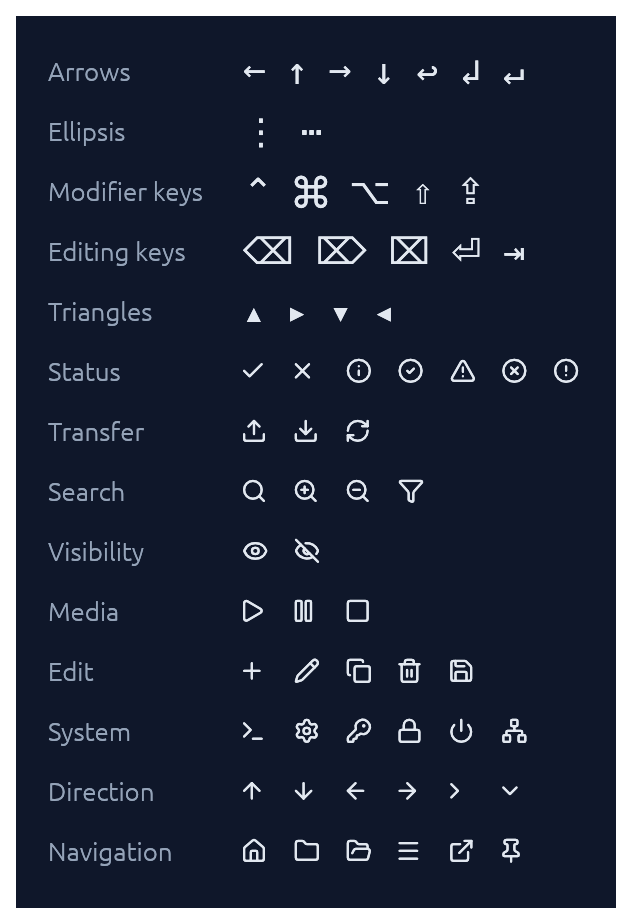
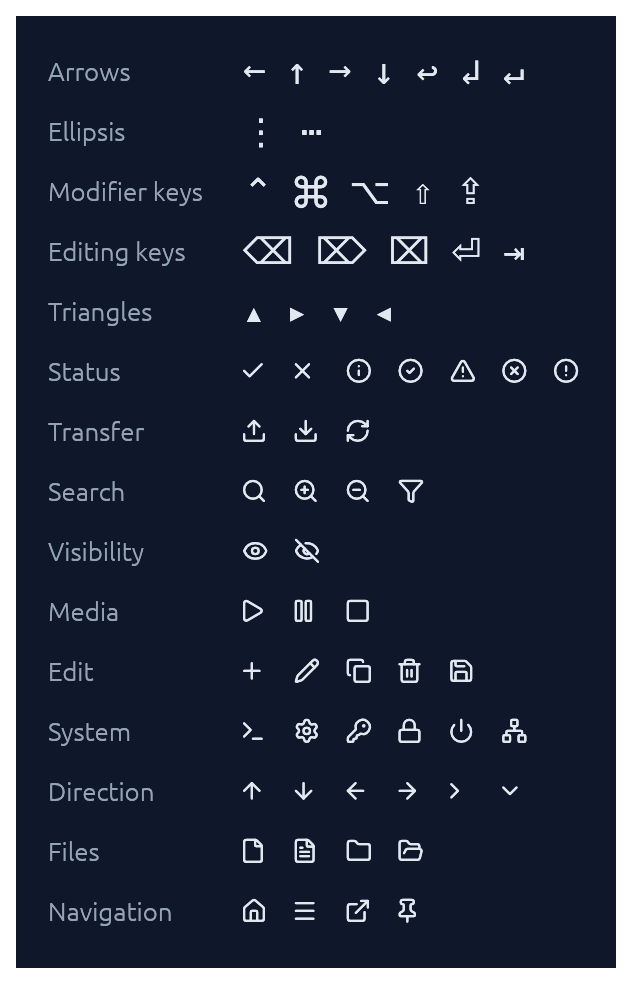
Dock layout readback, pane ids, file glyphs (#45)
* Dock: to_node readback, DockGroupContext::id; FILE and FILE_TEXT glyphs

* Review: tighter to_node and id tests, simpler harness and docs

diff --git a/src/dock/layout.rs b/src/dock/layout.rs
@@ -191,6 +191,9 @@ impl DropTarget {
 ///
 /// Lookups take any borrowed form of `T`, as `HashMap` does, so a
 /// `DockLayout<String>` accepts `&str`.
+///
+/// `==` also compares focus and internal ids; compare [`Self::to_node`] to
+/// compare shapes.
 #[derive(Clone, Debug, PartialEq)]
 #[cfg_attr(feature = "serde", derive(serde::Serialize, serde::Deserialize))]
 pub struct DockLayout<T> {
@@ -235,6 +238,33 @@ impl<T: Clone + Eq + Hash> DockLayout<T> {
         I::Item: Into<T>,
     {
         Self::from_node(DockNode::tabs(tabs))
+    }
+
+    /// The layout's shape as a [`DockNode`]: its groups, their tabs in strip
+    /// order, and its splits and fractions. `None` when the layout is empty.
+    ///
+    /// This is a snapshot for inspecting or comparing layouts, as in a test.
+    /// It leaves out each group's active tab and the focused group, and
+    /// rebuilding with [`Self::from_node`] resets those and each pane's
+    /// [`DockGroupContext::id`](crate::DockGroupContext::id), so edit a layout
+    /// with its own methods instead.
+    ///
+    /// ```
+    /// use elegance::{DockLayout, DockNode, DockSide};
+    ///
+    /// let mut layout = DockLayout::<String>::single(["editor"]);
+    /// layout.insert_beside("editor", "console", DockSide::Bottom);
+    /// assert_eq!(
+    ///     layout.to_node(),
+    ///     Some(DockNode::column(
+    ///         0.5,
+    ///         DockNode::tabs(["editor"]),
+    ///         DockNode::tabs(["console"]),
+    ///     )),
+    /// );
+    /// ```
+    pub fn to_node(&self) -> Option<DockNode<T>> {
+        self.root.as_ref().map(Node::to_node)
     }
 
     fn build(&mut self, node: DockNode<T>) -> Node<T> {
@@ -839,6 +869,21 @@ enum MaybeTab<T> {
 }
 
 impl<T> Node<T> {
+    fn to_node(&self) -> DockNode<T>
+    where
+        T: Clone,
+    {
+        match self {
+            Self::Group(g) => DockNode::Tabs(g.tabs.clone()),
+            Self::Split {
+                direction,
+                fraction,
+                first,
+                second,
+            } => DockNode::split(*direction, *fraction, first.to_node(), second.to_node()),
+        }
+    }
+
     pub(crate) fn for_each_group<'a>(&'a self, f: &mut impl FnMut(&'a TabGroup<T>)) {
         match self {
             Self::Group(g) => f(g),
@@ -992,8 +1037,8 @@ fn split_node<T>(node: &mut Node<T>, side: DockSide, added: Node<T>, share: f32)
 mod tests {
     use super::*;
 
-    fn three_pane() -> DockLayout<String> {
-        DockLayout::<String>::from_node(DockNode::row(
+    fn three_pane_node() -> DockNode<String> {
+        DockNode::row(
             0.25,
             DockNode::tabs(["files"]),
             DockNode::column(
@@ -1001,7 +1046,11 @@ mod tests {
                 DockNode::tabs(["editor", "preview"]),
                 DockNode::tabs(["console"]),
             ),
-        ))
+        )
+    }
+
+    fn three_pane() -> DockLayout<String> {
+        DockLayout::from_node(three_pane_node())
     }
 
     #[test]
@@ -1637,5 +1686,24 @@ mod tests {
         );
         assert!(moved);
         assert!(layout.next_group > 8, "allocator moved past existing ids");
+    }
+
+    #[test]
+    fn to_node_reads_back_the_shape() {
+        assert_eq!(DockLayout::<String>::new().to_node(), None);
+        let node = three_pane_node();
+        let mut layout = DockLayout::from_node(node.clone());
+        assert_eq!(layout.to_node(), Some(node.clone()));
+
+        // Active tabs and focus are left out.
+        layout.activate("preview");
+        assert_eq!(layout.to_node(), Some(node.clone()));
+
+        // The dropped empty group takes id 0, so the ids differ from
+        // `layout`'s while the shape matches.
+        let shifted =
+            DockLayout::from_node(DockNode::row(0.5, DockNode::Tabs(vec![]), node.clone()));
+        assert_ne!(shifted, DockLayout::from_node(node.clone()));
+        assert_eq!(shifted.to_node(), Some(node));
     }
 }

diff --git a/tests/dock.rs b/tests/dock.rs
@@ -17,12 +17,15 @@ struct App {
     min_tab_width: f32,
     /// Skip showing the dock, as an app does while a tab page is hidden.
     hidden: bool,
-    /// Give each strip buttons through `DockViewer::tab_strip_ui`.
-    strip_buttons: bool,
+    viewer: Viewer,
 }
 
+#[derive(Default)]
 struct Viewer {
+    /// Give each strip buttons through `DockViewer::tab_strip_ui`.
     strip_buttons: bool,
+    /// Each group's `DockGroupContext::id`, from the last frame.
+    strip_ids: Vec<egui::Id>,
 }
 
 impl DockViewer for Viewer {
@@ -64,6 +67,7 @@ impl DockViewer for Viewer {
     /// "new beside X" adds "X+" to X's group. The `files` group can also
     /// open `preview`, a tab in another group.
     fn tab_strip_ui(&mut self, ui: &mut egui::Ui, context: &mut DockGroupContext<'_, String>) {
+        self.strip_ids.push(context.id());
         if !self.strip_buttons {
             return;
         }
@@ -93,16 +97,11 @@ fn harness_sized(layout: DockLayout<String>, size: egui::Vec2) -> Harness<'stati
             if app.hidden {
                 return;
             }
+            app.viewer.strip_ids.clear();
             let out = Dock::new("dock")
                 .min_pane_size(app.min_pane)
                 .min_tab_width(app.min_tab_width)
-                .show(
-                    ui,
-                    &mut app.layout,
-                    &mut Viewer {
-                        strip_buttons: app.strip_buttons,
-                    },
-                );
+                .show(ui, &mut app.layout, &mut app.viewer);
             app.events.extend(out.events);
         },
         App {
@@ -111,7 +110,7 @@ fn harness_sized(layout: DockLayout<String>, size: egui::Vec2) -> Harness<'stati
             min_pane: 96.0,
             min_tab_width: 120.0,
             hidden: false,
-            strip_buttons: false,
+            viewer: Viewer::default(),
         },
     );
     harness.run();
@@ -676,7 +675,7 @@ fn activating_a_hidden_tab_scrolls_it_into_view() {
 
 fn with_strip_buttons() -> Harness<'static, App> {
     let mut harness = harness(three_pane());
-    harness.state_mut().strip_buttons = true;
+    harness.state_mut().viewer.strip_buttons = true;
     harness.run();
     harness
 }
@@ -728,6 +727,29 @@ fn adding_a_tab_already_open_activates_it_where_it_is() {
 }
 
 #[test]
+fn a_group_keeps_its_id_while_its_tabs_change() {
+    let mut harness = with_strip_buttons();
+    let before = harness.state().viewer.strip_ids.clone();
+    let unique: std::collections::HashSet<_> = before.iter().collect();
+    assert_eq!(unique.len(), 3, "{before:?}");
+
+    harness.get_by_label("preview").click();
+    harness.run();
+    harness.get_by_label("new beside preview").click();
+    harness.run();
+    assert_eq!(
+        harness.state().layout.group_tabs("preview"),
+        ["editor", "preview", "preview+"]
+    );
+    assert_eq!(harness.state().viewer.strip_ids, before);
+
+    // Closing `files` collapses the root split, moving the other groups up.
+    harness.state_mut().layout.remove_tab("files");
+    harness.run();
+    assert_eq!(harness.state().viewer.strip_ids, before[1..]);
+}
+
+#[test]
 fn strip_widgets_leave_room_for_the_overflow_button() {
     let layout = DockLayout::from_node(DockNode::row(
         0.5,
@@ -735,7 +757,7 @@ fn strip_widgets_leave_room_for_the_overflow_button() {
         DockNode::tabs(["editor", "c", "d"]),
     ));
     let mut harness = harness_sized(layout, egui::vec2(160.0, 300.0));
-    harness.state_mut().strip_buttons = true;
+    harness.state_mut().viewer.strip_buttons = true;
     harness.state_mut().min_pane = 20.0;
     harness.run();
 

diff --git a/examples/render_docs.rs b/examples/render_docs.rs
@@ -2084,7 +2084,7 @@ fn render_glyphs() {
                             .trim_end()
                             .to_string()
                     };
-                    let rows: [(&str, String); 14] = [
+                    let rows = [
                         ("Arrows", "← ↑ → ↓ ↩ ↲ ↵".to_string()),
                         ("Ellipsis", "⋮ ⋯".to_string()),
                         ("Modifier keys", "⌃ ⌘ ⌥ ⇧ ⇪".to_string()),
@@ -2136,15 +2136,12 @@ fn render_glyphs() {
                             ]),
                         ),
                         (
+                            "Files",
+                            icons(&[g::FILE, g::FILE_TEXT, g::FOLDER, g::FOLDER_OPEN]),
+                        ),
+                        (
                             "Navigation",
-                            icons(&[
-                                g::HOME,
-                                g::FOLDER,
-                                g::FOLDER_OPEN,
-                                g::MENU,
-                                g::EXTERNAL_LINK,
-                                g::PIN,
-                            ]),
+                            icons(&[g::HOME, g::MENU, g::EXTERNAL_LINK, g::PIN]),
                         ),
                     ];
                     for (label, glyphs) in &rows {

diff --git a/src/dock/mod.rs b/src/dock/mod.rs
@@ -72,7 +72,9 @@ pub use layout::{DockLayout, DockNode, DockSide, SplitDirection};
 
 use std::hash::Hash;
 
-use egui::{Align2, Color32, FontId, Response, Role, Sense, Ui, Vec2b, Widget, WidgetInfo, vec2};
+use egui::{
+    Align2, Color32, FontId, Id, Response, Role, Sense, Ui, Vec2b, Widget, WidgetInfo, vec2,
+};
 
 use crate::tab_paint::{self, TabContent};
 use crate::theme::Theme;
@@ -314,6 +316,7 @@ pub struct DockGroupContext<'a, T> {
     /// Index of the active tab in `tabs`.
     active: usize,
     group: GroupId,
+    id: Id,
     actions: &'a mut Vec<TabAction<T>>,
 }
 
@@ -326,6 +329,13 @@ impl<T> DockGroupContext<'_, T> {
     /// The group's active tab.
     pub fn active_tab(&self) -> &T {
         &self.tabs[self.active]
+    }
+
+    /// A stable id for this group, for keying egui state such as a popup. It
+    /// survives tab changes, splits around the group, and a save and load,
+    /// for as long as the group exists.
+    pub fn id(&self) -> Id {
+        self.id
     }
 
     /// Add `tab` to the end of this group, activate it, and focus the group.

diff --git a/src/lib.rs b/src/lib.rs
@@ -270,6 +270,12 @@ pub mod glyphs {
     /// Stop icon, for ending playback, a run, or a recording (pairs with
     /// [`PLAY`]). Source: [Lucide `square`](https://lucide.dev/icons/square).
     pub const STOP: char = '\u{E027}';
+    /// File icon, for files in a tree, list, or tab (pairs with [`FOLDER`]).
+    /// Source: [Lucide `file`](https://lucide.dev/icons/file).
+    pub const FILE: char = '\u{E028}';
+    /// Text-file icon, for documents and other files with text content
+    /// (pairs with [`FILE`]). Source: [Lucide `file-text`](https://lucide.dev/icons/file-text).
+    pub const FILE_TEXT: char = '\u{E029}';
     /// Check / done mark, mapped at standard U+2713 so plain `'✓'` literals
     /// also pick up the elegance treatment.
     /// Source: [Lucide `check`](https://lucide.dev/icons/check).

diff --git a/src/dock/show.rs b/src/dock/show.rs
@@ -579,6 +579,7 @@ impl<T: Clone + Eq + Hash> Pass<'_, T> {
             tabs: &group.tabs,
             active: group.active,
             group: group.id,
+            id: self.base_id.with(("group", group.id)),
             actions: &mut self.actions,
         };
         self.viewer.tab_strip_ui(&mut child, &mut context);

diff --git a/scripts/update_lucide_glyphs.py b/scripts/update_lucide_glyphs.py
@@ -93,6 +93,9 @@ LUCIDE_GLYPHS = [
     ("play", 0xE025),
     ("pause", 0xE026),
     ("square", 0xE027),
+    # Files, pairing with folder / folder-open above.
+    ("file", 0xE028),
+    ("file-text", 0xE029),
     ("check", 0x2713),
     ("x", 0x2717),
 ]

diff --git a/dev/glyph_additions_plan.md b/dev/glyph_additions_plan.md
@@ -1,6 +1,6 @@
 # Glyph Additions — Proposal
 
-> **Status:** shipped, and then expanded. This document proposed the first six action glyphs (`U+E00C`–`U+E011`). A follow-up batch added 17 more at `U+E012`–`U+E022` — a Status family (`info`, `triangle-alert`, `circle-x`, `circle-check`) that also rewires `CalloutTone`'s per-tone marks, plus broadly-useful nav/action icons (`settings`, `menu`, `arrow-left`/`right`, `external-link`, `chevron-right`/`down`) and situational ones (`funnel`→`FILTER`, `eye`, `eye-off`, `house`→`HOME`, `lock`, `save`). `folder` and `folder-open` landed later at `U+E023`–`U+E024`, on a downstream report of falling back to the 📁 emoji for a breadcrumb root — the emoji renders in the system emoji font, so it reads as a different icon set beside the Lucide glyphs next to it. `play`, `pause` and `square`→`STOP` followed at `U+E025`–`U+E027`, on a downstream report of using the base-font `▶`/`■` for run controls, the same seam. The conventions and process below applied unchanged to every batch.
+> **Status:** shipped, and then expanded. This document proposed the first six action glyphs (`U+E00C`–`U+E011`). A follow-up batch added 17 more at `U+E012`–`U+E022` — a Status family (`info`, `triangle-alert`, `circle-x`, `circle-check`) that also rewires `CalloutTone`'s per-tone marks, plus broadly-useful nav/action icons (`settings`, `menu`, `arrow-left`/`right`, `external-link`, `chevron-right`/`down`) and situational ones (`funnel`→`FILTER`, `eye`, `eye-off`, `house`→`HOME`, `lock`, `save`). `folder` and `folder-open` landed later at `U+E023`–`U+E024`, on a downstream report of falling back to the 📁 emoji for a breadcrumb root — the emoji renders in the system emoji font, so it reads as a different icon set beside the Lucide glyphs next to it. `play`, `pause` and `square`→`STOP` followed at `U+E025`–`U+E027`, on a downstream report of using the base-font `▶`/`■` for run controls, the same seam. `file` and `file-text` followed at `U+E028`–`U+E029`, to pair with the folders in file trees and editor tabs. The conventions and process below applied unchanged to every batch.
 
 A proposal to extend the bundled Elegance Symbols icon set with six common action glyphs. The current set covers transfer (`upload`/`download`), search/zoom, status (`circle-alert`, `check`, `x`), and a few object icons (`pin`, `copy`, `network`, `power`, `trash-2`, `pencil`), but downstream apps keep reaching for a small group of everyday action icons that aren't there yet and have to fall back to text-only buttons or base-font literals.
 

diff --git a/CHANGELOG.md b/CHANGELOG.md
@@ -4,6 +4,14 @@ Notable changes to `egui-elegance`. Where a version has [GitHub release notes](h
 
 Versions before 0.11.0 predate tagging; see the git history for those.
 
+## Unreleased
+
+### Added
+
+- `DockLayout::to_node` reads a layout's shape back as a `DockNode`, e.g. to compare layouts in tests.
+- `DockGroupContext::id` gives a stable id for each pane, for keying state such as a popup.
+- `glyphs::FILE` and `FILE_TEXT`.
+
 ## [0.20.0](https://github.com/matrix-research-inc/egui-elegance/releases/tag/v0.20.0) — 2026-11-13
 
 ### Added
